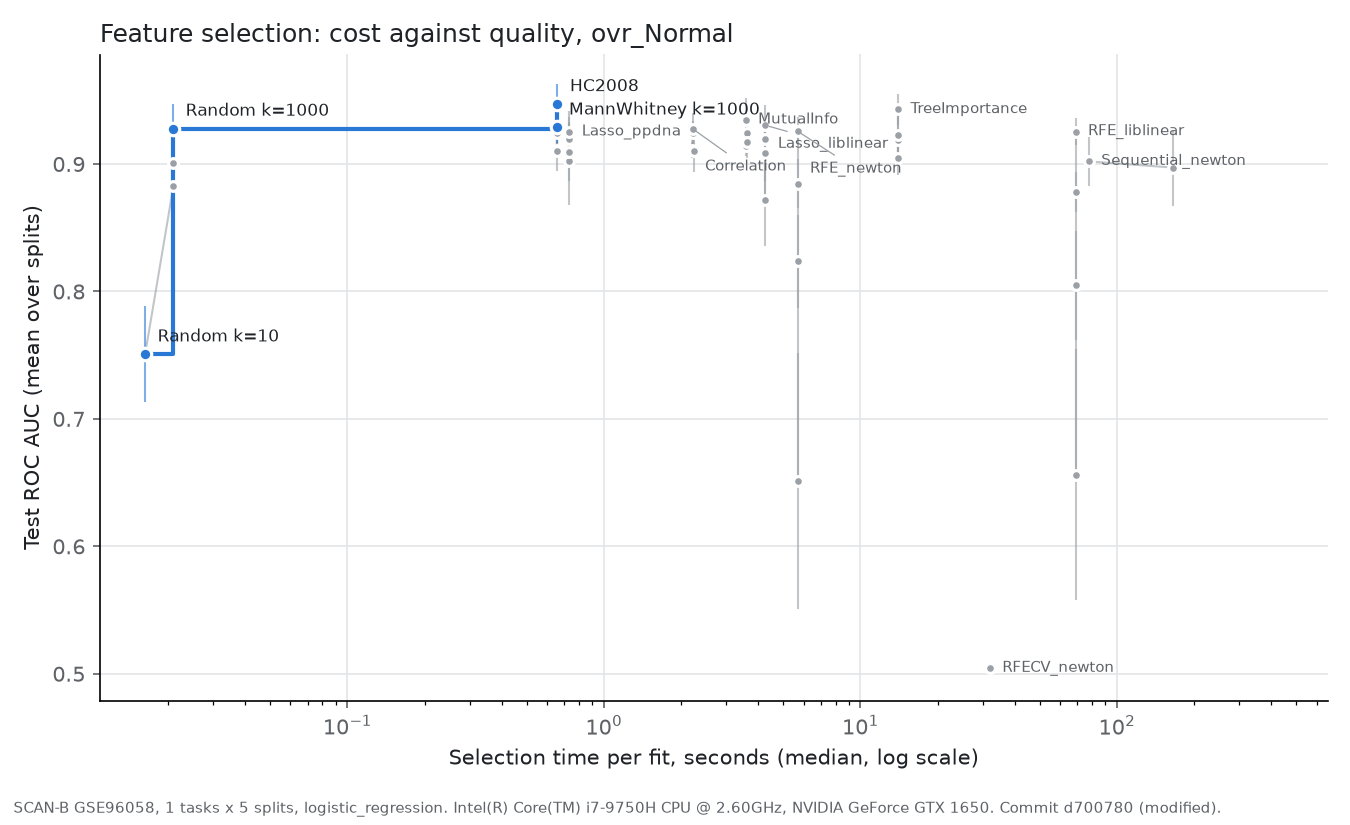
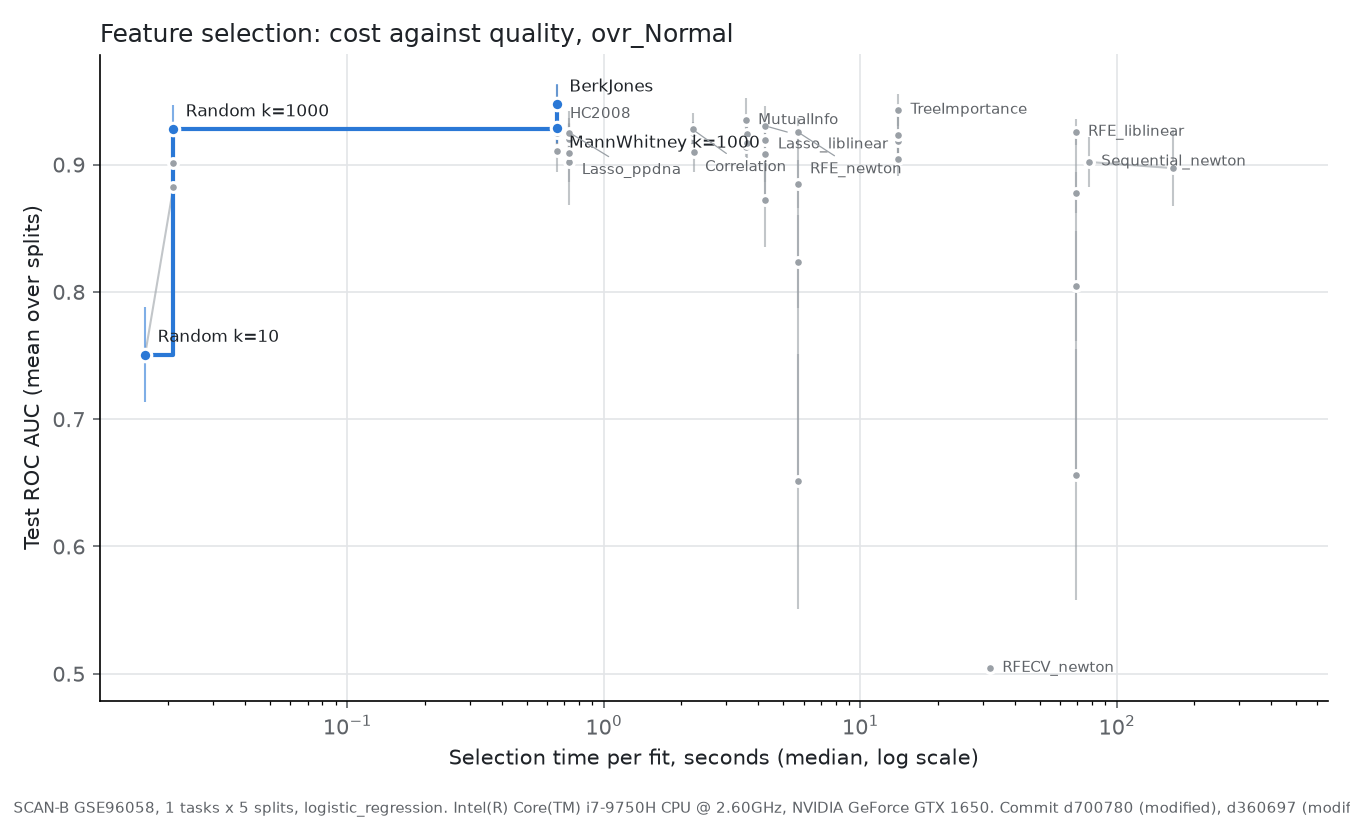
Frontier: Berk-Jones, and BreastMNIST without copies (gaps A5, A6)
Berk-Jones reaches AUC 0.970 on SCAN-B in 0.65 s and 0.863 on
BreastMNIST in 0.008 s. It leads HC2008 by 0.0002 AUC, far below the
spread over splits, which puts it alone on the frontier. The figures are
redrawn with it. Without BreastMNIST's copies, frontier AUC fell by
about 0.01 to 0.03, and all features still score best. GAPS.md records
A5, A6 and B3 as closed.

diff --git a/final_report/08_results_frontier.md b/final_report/08_results_frontier.md
@@ -20,7 +20,7 @@ faster.
 | Setting | Value |
 |---|---|
 | Datasets | SCAN-B (five tasks) and BreastMNIST (one task) |
-| Methods | Random; Mann-Whitney, HC2008, Spearman correlation, mutual information and Lasso (PPDNA) on the GPU; Lasso (liblinear), tree importance (200 trees, 4 threads), RFE (liblinear and Newton), RFECV (Newton) on the CPU; Sequential (Newton) on the GPU. RFECV scored by AUC was added later (section 8.6). |
+| Methods | Random; Mann-Whitney, HC2008, Spearman correlation, mutual information and Lasso (PPDNA) on the GPU; Lasso (liblinear), tree importance (200 trees, 4 threads), RFE (liblinear and Newton), RFECV (Newton) on the CPU; Sequential (Newton) on the GPU. Added later on the same splits: RFECV scored by AUC (section 8.6), Berk-Jones on the GPU, and two-stage chains (section 8.9). |
 | `k` | 10, 50, 250, 1000 on SCAN-B; 10, 50, 250 on BreastMNIST; 5 and 10 for Sequential |
 | Splits | 5 random splits, 70% of the samples for training |
 | Classifier | logistic regression, C = 1 (not tuned, to keep the run short) |
@@ -57,24 +57,27 @@ splits. Bars: one standard deviation over splits. Table:
 | Method | Best AUC (its `k`) | Time per fit at that `k` | Device | On frontier |
 |---|---|---|---|---|
 | Random | 0.950 (1000) | 0.02 s | CPU | yes, every `k` |
-| HC2008 | **0.970** (2,855 genes) | 0.66 s | GPU | **yes** |
+| Berk-Jones | **0.970** (2,841 to 2,855 genes) | 0.65 s | GPU | **yes** |
+| HC2008 | **0.970** (2,855 genes) | 0.66 s | GPU | no, by 0.0002 |
 | Mann-Whitney | 0.966 (1000) | 0.66 s | GPU | no |
 | Lasso, PPDNA | 0.962 (1000) | 0.73 s | GPU | no |
 | Mutual information | 0.968 (1000) | 3.6 s | GPU | no |
 | Spearman correlation | 0.966 (1000) | 3.6 s | GPU | no |
 | Lasso, liblinear | 0.964 (1000) | 4.1 s | CPU | no |
 | RFE, Newton | 0.959 (1000) | 6.0 s | CPU | no |
-| Tree importance | **0.970** (1000) | 11.4 s | CPU | yes, by 0.00002 |
+| Tree importance | **0.970** (1000) | 11.4 s | CPU | no, by 0.0002 |
 | RFECV, Newton | 0.739 (own count) | 31 s | CPU | no |
 | RFE, liblinear | 0.959 (1000) | 57 s | CPU | no |
 | Sequential, Newton | 0.939 (5) | 84 s | GPU | no |
 
 **What it shows.**
 
-1. **The cheap end is enough.** HC2008 and Mann-Whitney reach AUC 0.97 in
-   0.66 s. Nothing slower is clearly better. Tree importance ties HC2008
-   (0.970) but takes 17 times longer. Split by split, each wins on some of
-   the five splits.
+1. **The cheap end is enough.** Berk-Jones, HC2008 and Mann-Whitney reach
+   AUC 0.97 in 0.65 to 0.66 s. Nothing slower is clearly better. Tree
+   importance ties HC2008 (0.970) but takes 17 times longer. Split by
+   split, each wins on some of the five splits. Berk-Jones, added later,
+   leads HC2008 by 0.0002 AUC and 0.01 s. That puts it alone on the
+   frontier, but the gap is far below the spread over splits (0.004).
 2. **The GPU moved five methods into the top-left corner.** Mann-Whitney,
    HC2008, Lasso (PPDNA), mutual information and correlation all run in
    under 4 s, at AUC 0.96 to 0.97. In the comparison of chapter 7,
@@ -95,20 +98,21 @@ splits. Bars: one standard deviation over splits. Table:
    test of section 7.3 has only 4 degrees of freedom. With 16 splits, in
    chapter 7, it could not order the top methods either.
 
-**Caution on HC2008.** It kept 2,855 genes, the edge of its search, on
-every task and split, as in chapter 7. It is on the frontier because it is
-as fast as Mann-Whitney and uses more genes. It is not a sign that HC
-chose a better count.
+**Caution on HC2008 and Berk-Jones.** HC2008 kept 2,855 genes, the edge of
+its search, on every task and split, as in chapter 7. Berk-Jones kept
+2,841 to 2,855. They lead because they are as fast as Mann-Whitney and use
+nearly three times the genes of its largest `k`. It is not a sign that
+they chose a better count.
 
 ## 8.4 SCAN-B, each task
 
 | Task | Frontier beyond random selection (AUC, time) | Note |
 |---|---|---|
 | [Basal vs rest](figures/frontier_scanb70_roc_auc_ovr_Basal.png) | Lasso PPDNA k = 250 (0.992, 0.55 s), Mann-Whitney k = 10 (0.993, 0.67 s), mutual information k = 1000 (0.993, 3.7 s), Lasso liblinear k = 250 (0.993, 3.9 s) | The easiest task: almost every method scores 0.99, and random 1,000 genes 0.988. |
-| [Her2 vs rest](figures/frontier_scanb70_roc_auc_ovr_Her2.png) | HC2008 (0.985, 0.66 s) | RFECV collapses to 0.63. |
-| [LumA vs rest](figures/frontier_scanb70_roc_auc_ovr_LumA.png) | HC2008 (0.960, 0.65 s), tree importance k = 1000 (0.961, 11.4 s) | The only balanced task; RFECV works here (0.960). |
-| [LumB vs rest](figures/frontier_scanb70_roc_auc_ovr_LumB.png) | HC2008 (0.970, 0.65 s), Mann-Whitney k = 1000 (0.974, 0.67 s) | RFECV collapses to 0.64. |
-| [Normal vs rest](figures/frontier_scanb70_roc_auc_ovr_Normal.png) | Mann-Whitney k = 1000 (0.929, 0.65 s), HC2008 (0.947, 0.66 s) | The hardest task; RFECV at chance (0.50). |
+| [Her2 vs rest](figures/frontier_scanb70_roc_auc_ovr_Her2.png) | Berk-Jones (0.985, 0.64 s), HC2008 (0.985, 0.66 s) | RFECV collapses to 0.63. |
+| [LumA vs rest](figures/frontier_scanb70_roc_auc_ovr_LumA.png) | Berk-Jones (0.960, 0.64 s), tree importance k = 1000 (0.961, 11.4 s) | The only balanced task; RFECV works here (0.960). |
+| [LumB vs rest](figures/frontier_scanb70_roc_auc_ovr_LumB.png) | HC2008 (0.970, 0.65 s), Berk-Jones (0.970, 0.65 s), Mann-Whitney k = 1000 (0.974, 0.67 s) | RFECV collapses to 0.64. |
+| [Normal vs rest](figures/frontier_scanb70_roc_auc_ovr_Normal.png) | Mann-Whitney k = 1000 (0.929, 0.65 s), Berk-Jones (0.947, 0.66 s) | The hardest task; RFECV at chance (0.50). |
 
 Click a task to see its plot. Each has a table beside it in
 [`figures/`](figures/). On every task the frontier above random selection
@@ -138,6 +142,7 @@ balanced task, and there RFECV works. Section 8.6 tests this hypothesis.
 | Method | Best AUC (its `k`) | Time per fit | On frontier |
 |---|---|---|---|
 | Random | 0.835 (250) | < 0.001 s | yes |
+| Berk-Jones | 0.863 (199 to 204) | 0.008 s | yes |
 | Mann-Whitney | 0.867 (250) | 0.009 s | yes |
 | HC2008 | 0.864 (204) | 0.009 s | no |
 | Spearman correlation | 0.867 (250) | 0.02 s | no |
@@ -314,6 +319,33 @@ What it shows:
   239 non-zero coefficients. So a larger `k` changes nothing.
 - These differences are within one or two standard deviations over 5
   splits (0.01 to 0.03). They are not tested for significance.
+
+### BreastMNIST without the copied images
+
+The main methods and all features ran again on the 585 images left
+without copies (section 2.2): 5 splits, 70% training, as above. The
+images differ, so the splits do not pair with the runs above.
+
+| Method | k = 10 | k = 250 | Own count | All 2,048 features |
+|---|---|---|---|---|
+| Random | 0.616 (−0.021) | 0.809 (−0.026) | | **0.893** (−0.028) |
+| Mann-Whitney | 0.827 (−0.013) | 0.854 (−0.013) | | |
+| Lasso, liblinear | 0.801 (+0.041) | 0.883 (−0.018) | | |
+| Tree importance | 0.824 (+0.007) | 0.850 (−0.039) | | |
+| RFE, Newton | 0.758 (−0.013) | 0.882 (−0.019) | | |
+| HC2008 | | | 0.849 (−0.016) | |
+| Berk-Jones | | | 0.850 (−0.014) | |
+
+Mean test AUC over 5 splits; in brackets, the change from the run with
+the copies. Config:
+[`configs/frontier_breastmnist70_nocopies.yaml`](../configs/frontier_breastmnist70_nocopies.yaml).
+
+- **AUC fell by about 0.01 to 0.03 for most cells.** All features fell by
+  0.028. The change mixes the leak from the copies with a change in the
+  task: fewer images, differently balanced. Each change is within one or
+  two standard deviations over the splits.
+- **The conclusions hold.** All features still score best. Selection still
+  beats random clearly at k = 10 and by less at k = 250.
 
 ## 8.8 An unseen dataset: FGVC-Aircraft
 

diff --git a/final_report/10_open_work.md b/final_report/10_open_work.md
@@ -19,7 +19,6 @@ research beyond the project's scope.
 | **RFE with a finer step and a forest with more trees in the comparison.** The comparison used RFE removing half the genes per round and 50 trees. | Both were chosen for speed. The frontier used step 0.1 and 200 trees, and RFE stayed weakest. So the conclusion is unlikely to change. | Hours. |
 | **The full SCAN-B grid**: every selector × classifier × `k` × train fraction. | The comparison uses one classifier and one train fraction. | About four days on this laptop. Skipped by decision. |
 | **A measured target on SCAN-B**, such as the pathologist's ER status. | Every SCAN-B task here predicts a computed label. A measured label would show whether the conclusions hold for clinical truth. | One config. The loader already supports it. |
-| **Remove BreastMNIST's copied images and rerun.** 155 of 780 source images are copies (Pawłowska et al. 2023), some labelled differently. | Every BreastMNIST result carries this leak. The letter's supplement lists the pairs. So the copies can be dropped, or kept on one side of each split. | A loader option and two reruns: minutes. |
 | **The quantile transform with every classifier** (section 3.10). With logistic regression it did not help. | Would show whether shrinkage LDA and k-NN gain from normal-shaped features. | Started and cancelled. One `k`, all classifiers. |
 | **Time and memory complexity per method**, from the algorithm. | Planned to sit next to the measured times. A disagreement would be a finding. | Writing, no runs. |
 | **How SCAN-B computed `pam50 subtype`.** | The GEO notes say only that it implements Parker's method, after centring to a reference set, with unpublished R scripts (section 2.1, Appendix C.2). The exact implementation is unknown. | Reading other SCAN-B papers. |

diff --git a/docs/GAPS.md b/docs/GAPS.md
@@ -61,6 +61,14 @@ report does not list it yet.
 - **What closes it.** A loader option that drops the copies, and two
   reruns. Minutes.
 - **Source.** `final_report/10_open_work.md`, 10.1.
+- **Status.** Closed 2026-11-11. The letter's list names BUSI files, which
+  BreastMNIST does not keep. So `copies.py` finds the copies in
+  BreastMNIST's own images by the letter's method, geometric registration:
+  150 groups of 339 images, against the letter's 153 and 346, and the same
+  6 groups with conflicting labels. `load_xy(drop_copies=True)` keeps 585
+  images. The comparison and the frontier ran again without copies.
+  Scores did not fall by a visible amount; the fine ranking changed
+  (sections 2.2 and 7.8).
 
 ### A6. Berk-Jones is not among the methods (task 2)
 
@@ -89,6 +97,11 @@ report does not list it yet.
 - **Source.** Parked on 2026-10-05 as "published only as a detection test,
   not for feature selection". Reversed on 2026-11-10: `DECISIONS.md`
   records the decision and no longer lists it as parked.
+- **Status.** Closed 2026-11-11. `BerkJonesSelector`, with the CDF in log
+  form, tested against SciPy and 50-digit arithmetic. Run on the
+  comparison's splits and on the frontier. It stopped at or just before
+  HC's search edge, kept a subset of HC2008's features on every split, and
+  scored the same (sections 4.5 and 7.5).
 
 ### A7. No two-stage pipeline is tested (task 2)
 
@@ -150,3 +163,5 @@ report does not list it yet.
   project adds.
 - **What closes it.** A short list in chapter 1, mirrored in chapter 9.
 - **Source.** New.
+- **Status.** Closed 2026-11-11. Section 1.7 lists five contributions;
+  section 9.3 repeats them in short.

diff --git a/final_report/07_results_quality.md b/final_report/07_results_quality.md
@@ -542,9 +542,10 @@ lead on image embeddings.
   same splits. They are not independent replicates.
 - **Copied images.** 189 of BreastMNIST's 780 images repeat another image,
   some with a conflicting label (chapter 2). A copy on
-  each side of a split leaks. Without the copies, the scores did not fall
-  by a visible amount, but the fine ranking changed (section 7.8). The
-  BreastMNIST results of chapter 8 keep the copies, except section 8.7.
+  each side of a split leaks. Without the copies, macro-F1 did not fall
+  by a visible amount, but the fine ranking changed (section 7.8). AUC on
+  the frontier fell by about 0.01 to 0.03 (section 8.7). The other
+  BreastMNIST results of chapter 8 keep the copies.
 - **Computed labels.** PAM50 subtypes are computed from gene expression.
   The SCAN-B tasks reproduce a published classifier. Scores may be higher
   than on a measured clinical outcome.

diff --git a/final_report/09_conclusions.md b/final_report/09_conclusions.md
@@ -34,9 +34,10 @@
    treats them as clinical facts overstates what it shows.
 2. Check for repeated samples. 93 patients appear twice in SCAN-B's HiSeq
    data. Random splits put them on both sides and leak. We kept one
-   sample per patient. In BreastMNIST, 19% of the images are copies, as a 2023
-   letter reports. We learned of it after our runs. So that leak remains
-   in our image results.
+   sample per patient. In BreastMNIST, a quarter of the images repeat
+   another, as a 2023 letter reports. We found the copies in BreastMNIST's
+   own images and reran without them. AUC fell by 0.01 to 0.03, and the
+   fine ranking of methods changed. The main conclusions held.
 3. The gene values are on an arbitrary scale, with half the values tied at
    a floor. A rank test (Mann-Whitney U) fits this data. The F-test's
    assumptions do not hold.
